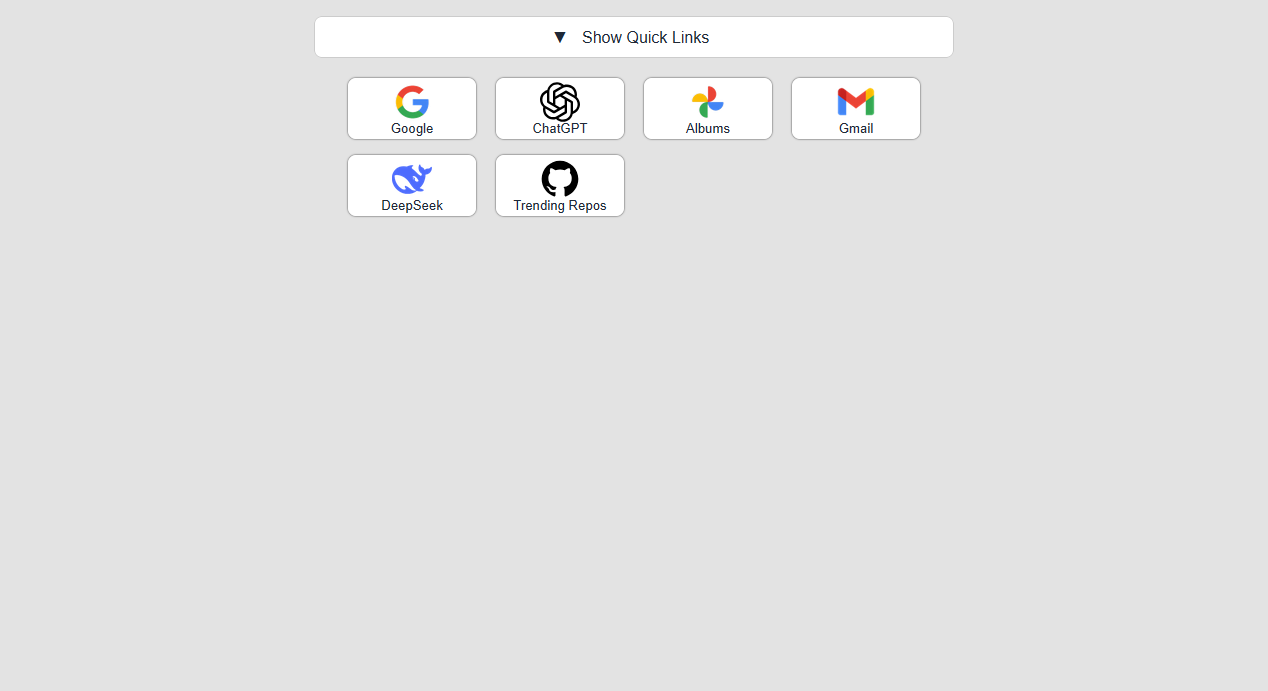
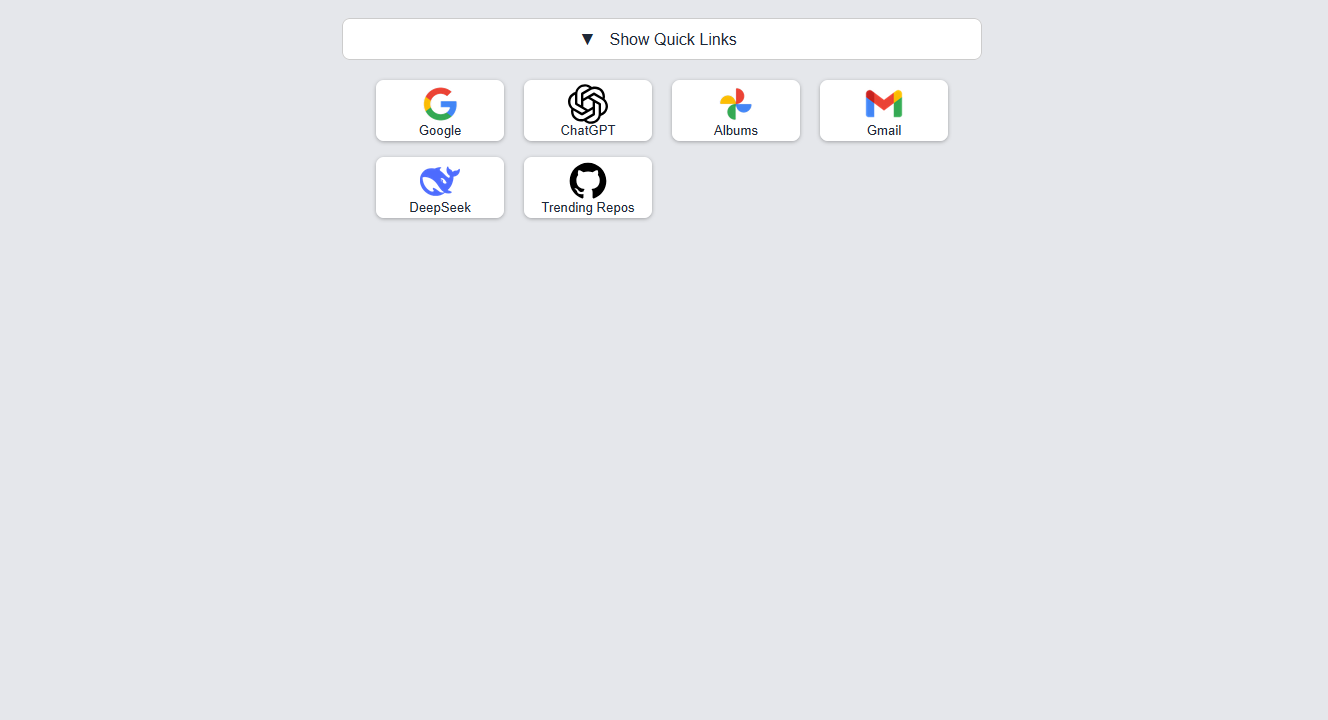
change background color

diff --git a/js/card.js b/js/card.js
@@ -5,7 +5,7 @@ function createCard(link) {
   card.href = link.url;
   card.target = '_blank';
 
-  card.className = `${CARD_WIDTH_CLASS} bg-white py-1 px-1 rounded-lg shadow-[0_0px_2px_rgba(0,0,0,0.8)] 
+  card.className = `${CARD_WIDTH_CLASS} bg-white py-1 px-1 rounded-lg shadow-[0_1px_3px_rgba(0,0,0,0.3)] 
   transition transform hover:-translate-y-1 flex 
   ${USE_VERTICAL_LAYOUT ? 'flex-col text-center' : 'items-center space-x-4'} items-center justify-center`;
 

diff --git a/index.html b/index.html
@@ -17,7 +17,7 @@
     }
   </script>
 </head>
-<body class="bg-[#e3e3e3] font-sans text-gray-800 min-h-screen">
+<body class="bg-gray-200 font-sans text-gray-800 min-h-screen">
 
   <header class="text-center py-1">
   </header>
